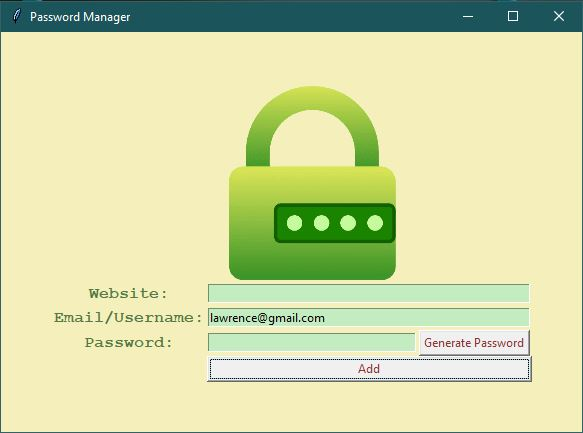
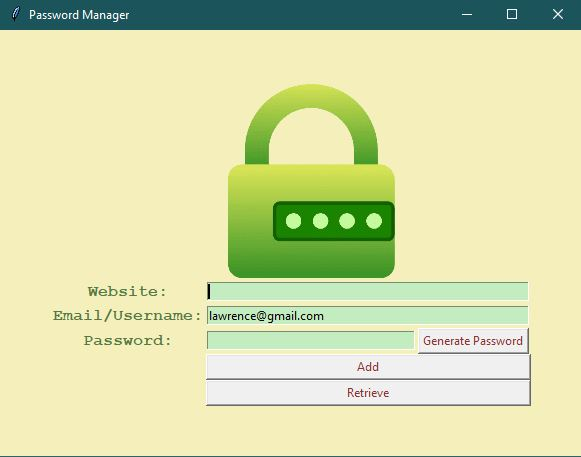
Added a retrieve button

Changed region(s): [[0.0929, 0.1801, 0.9294, 0.9007], [0.0, 0.0, 1.0, 1.0]]

diff --git a/main.py b/main.py
@@ -34,7 +34,7 @@ def generate_pass():
 
 
 def save_details():
-    web_data = website_entry.get()
+    web_data = (website_entry.get()).lower()
     email_data = email_entry.get()
     pass_data = pass_entry.get()
 
@@ -52,6 +52,24 @@ def save_details():
             pass_entry.delete(0, 'end')
             with open("data.txt") as data:
                 print(data.read())
+
+
+# ---------------------------- RETRIEVE PASSWORD ------------------------------- #
+
+
+def retrieve_password():
+    if website_entry.get() == "":
+        messagebox.showwarning(title="Warning", message="Enter the website whose password you want to retrieve.")
+    with open("data.txt") as data:
+        saved_data = data.readlines()
+        web_name = (website_entry.get()).lower()
+        for string in saved_data:
+            if web_name in string:
+                print((saved_data[saved_data.index(f"Website: {web_name}\n") + 2]).replace("Password: ", ""))
+                password = (saved_data[saved_data.index(f"Website: {web_name}\n") + 2]).replace("Password: ", "")
+                password = password.replace("\n", "")
+                pass_entry.insert(0, password)
+                pyperclip.copy(password)
 
 # ---------------------------- UI SETUP ------------------------------- #
 
@@ -91,6 +109,8 @@ generate_pass_button.grid(column=2, row=3)
 add_button = tkinter.Button(text="Add", width=45, command=save_details, fg=RED)
 add_button.grid(column=1, row=4, columnspan=2)
 
+retrieve_button = tkinter.Button(text="Retrieve", width=45, command=retrieve_password, fg=RED)
+retrieve_button.grid(column=1, row=5, columnspan=2)
 
 
 window.mainloop()
